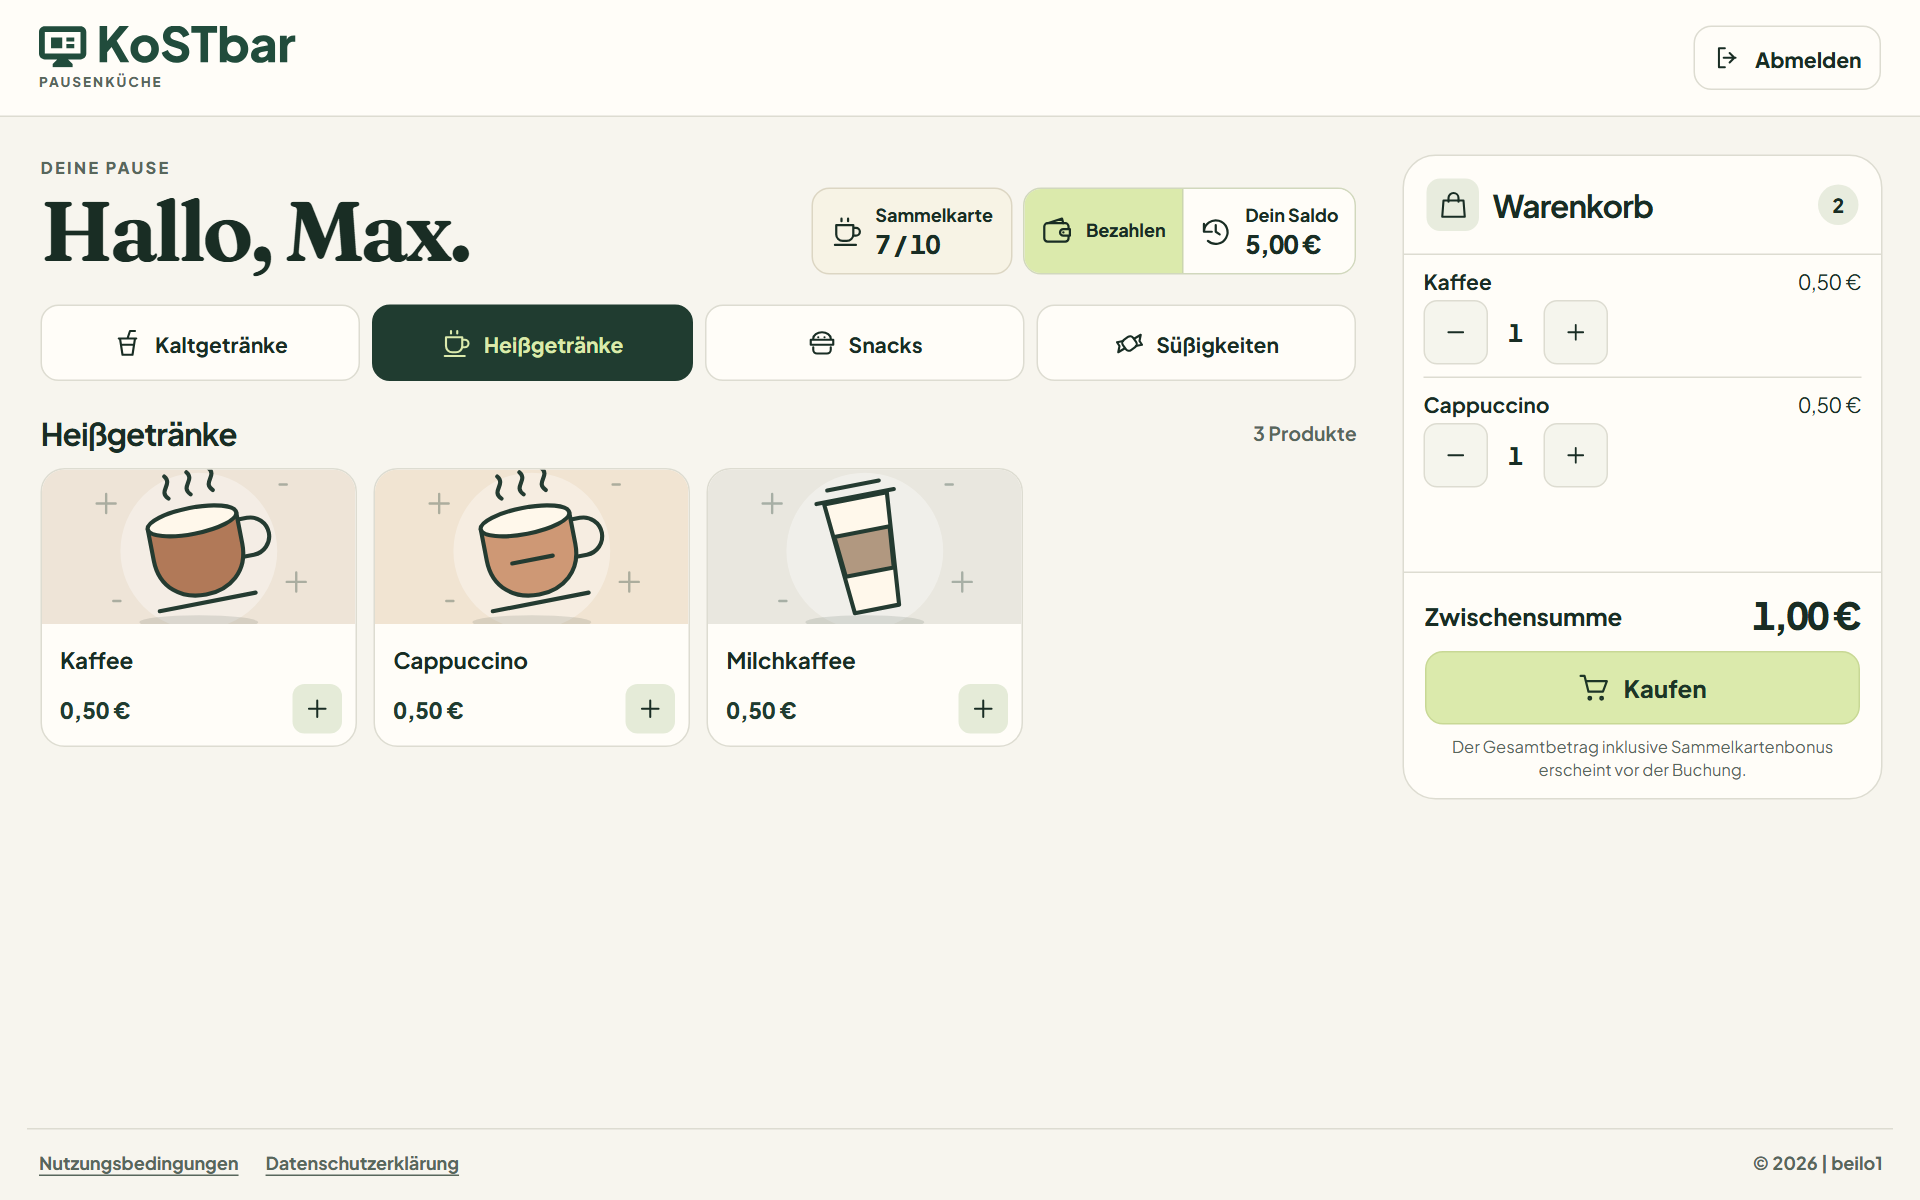
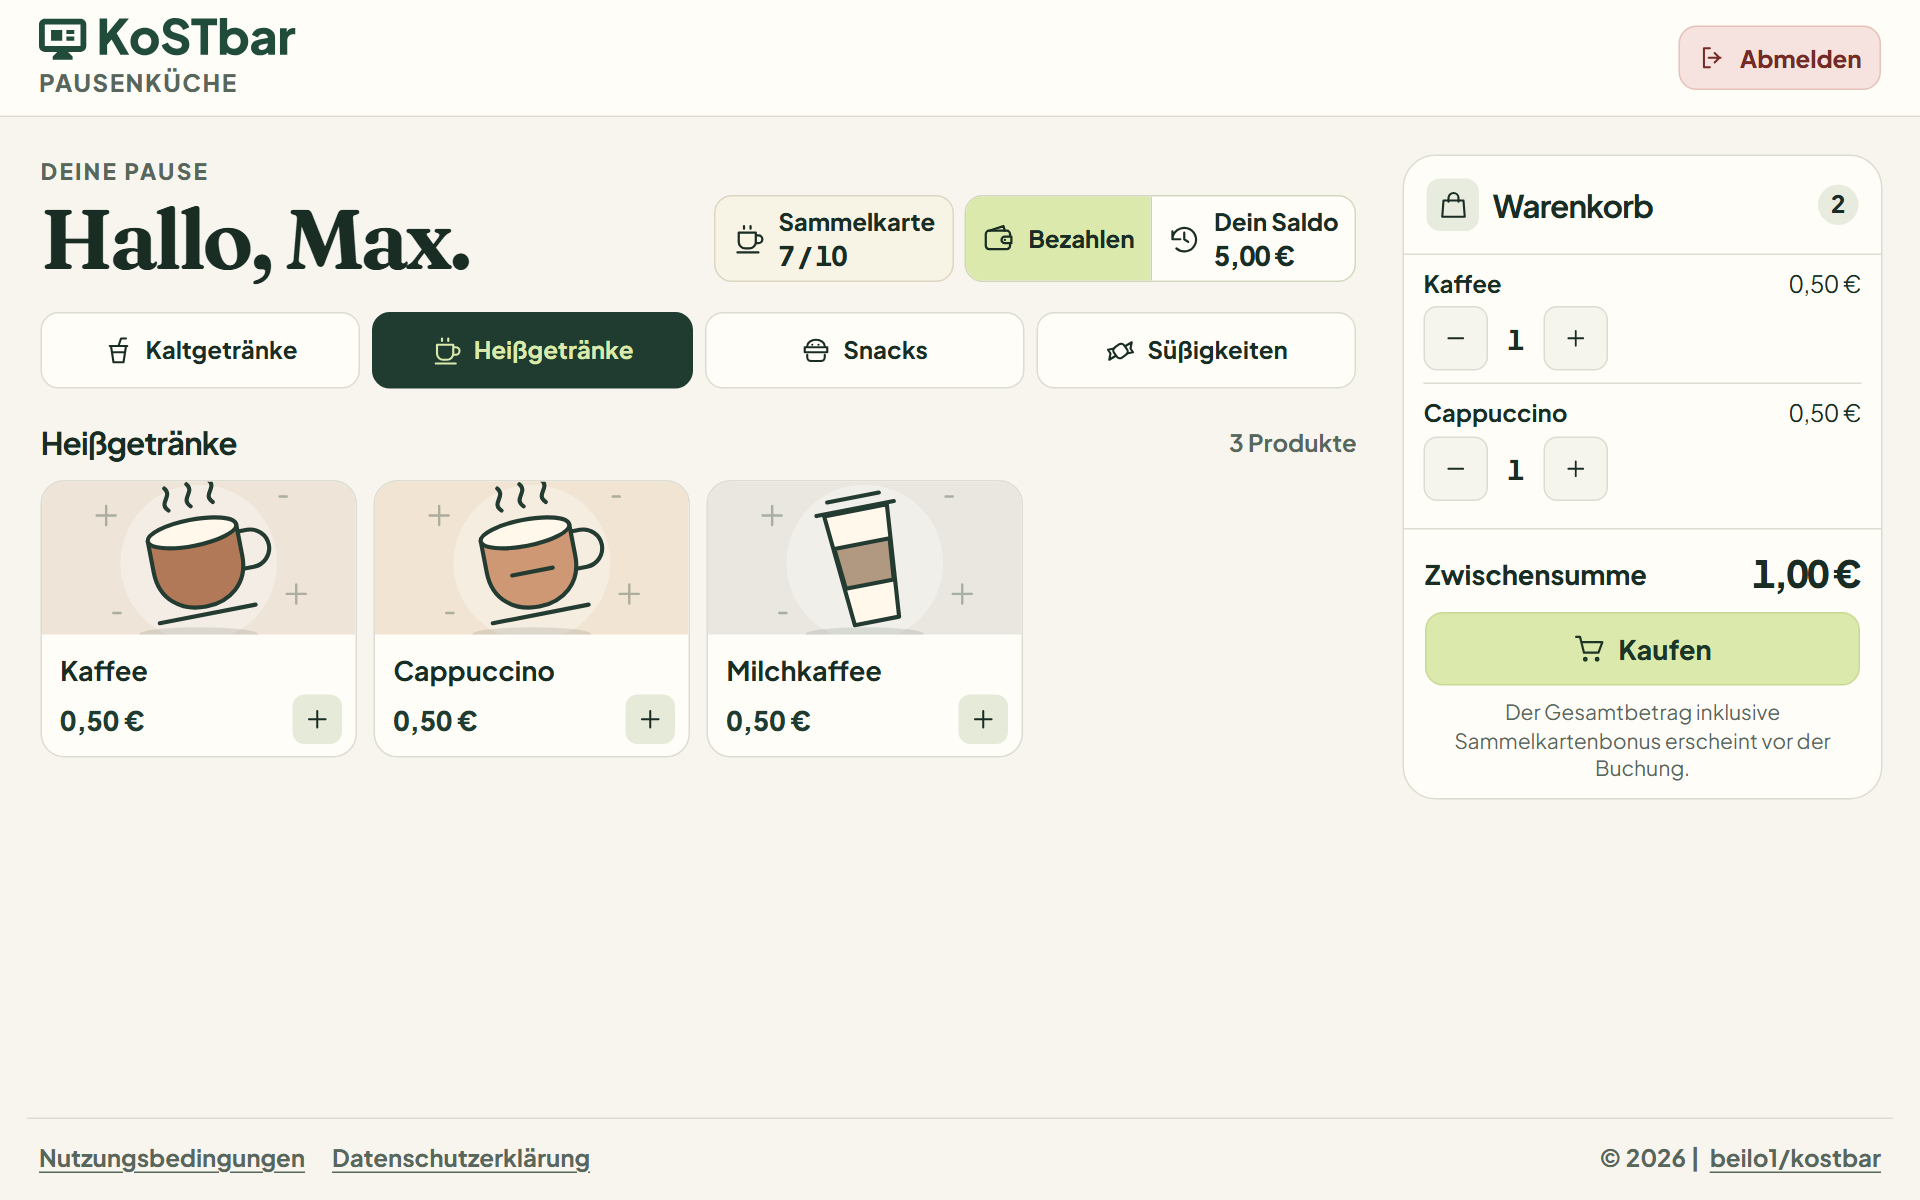
Refresh README screenshots and terminal render for RC2

diff --git a/README.md b/README.md
@@ -12,15 +12,25 @@ KoSTbar ist eine selbst gehostete Selbstbedienungskasse für den Pausenshop. Am 
 - Mehrere Verkaufspunkte mit eigenem Sortiment und einer Terminal-Vorschau zum Simulieren von Einkäufen
 - Verwaltung mit getrennten Admin-Rollen, manueller Benutzeranlage, Journal, Monatsauswertungen und Exporten
 
-### Verwaltung
+### Terminal vor der Anmeldung
 
-![KoSTbar-Verwaltung mit Kassenbuch der Pausenküche und fiktiven Konten](docs/images/backend.png)
+![Startseite des KoSTbar-Terminals Pausenküche mit Kartenanmeldung und PIN-Option](docs/images/terminal-start.png)
 
 ### Sammelkarte am Terminal
 
 ![Geöffnete digitale Sammelkarte von Max mit sieben von zehn Stempeln](docs/images/sammelkarte.png)
 
-Die Screenshots zeigen fiktive Beispieldaten aus v38.0.1. Die [aktuelle Bedienungsanleitung](docs/BETRIEB.md#nutzungsbedingungen-und-abnahme) beschreibt die neue Benutzerliste mit Seitenwechsel, den Storno-Filter und den Dialog **Projekt und Lizenz**.
+### Verwaltung
+
+#### Kassenbuch
+
+![Kassenbuch der Pausenküche mit Käufen und Barzahlungen von Max Berger, Nora Winter und Theo Sommer](docs/images/backend.png)
+
+#### Benutzerverwaltung
+
+![Benutzerverwaltung für Max Berger, Nora Winter und Theo Sommer mit Salden, Sammelkarten und Kontoaktionen](docs/images/benutzerverwaltung.png)
+
+Die Screenshots zeigen fiktive Beispieldaten. Die [Bedienungsanleitung](docs/BETRIEB.md#nutzungsbedingungen-und-abnahme) beschreibt die Benutzerliste, den Storno-Filter und den Dialog **Projekt und Lizenz**.
 
 ## Hardware
 
@@ -36,7 +46,7 @@ NAS, Terminals und der Admin-Rechner benötigen Netzwerkzugang, DNS und eine ver
 
 ![Fotorealistische Visualisierung des KoSTbar-Terminals Pausenküche mit limettengrünem 3D-Druck-Gehäuse und USB-NFC-Leser](docs/images/terminal-render.jpg)
 
-*Visualisierung des Terminals mit 3D-gedrucktem Gehäuse und eingebettetem Screenshot aus v38.0.1.*
+*Visualisierung des 3D-gedruckten Terminalgehäuses mit der KoSTbar-Produktansicht.*
 
 ## Installation
 
